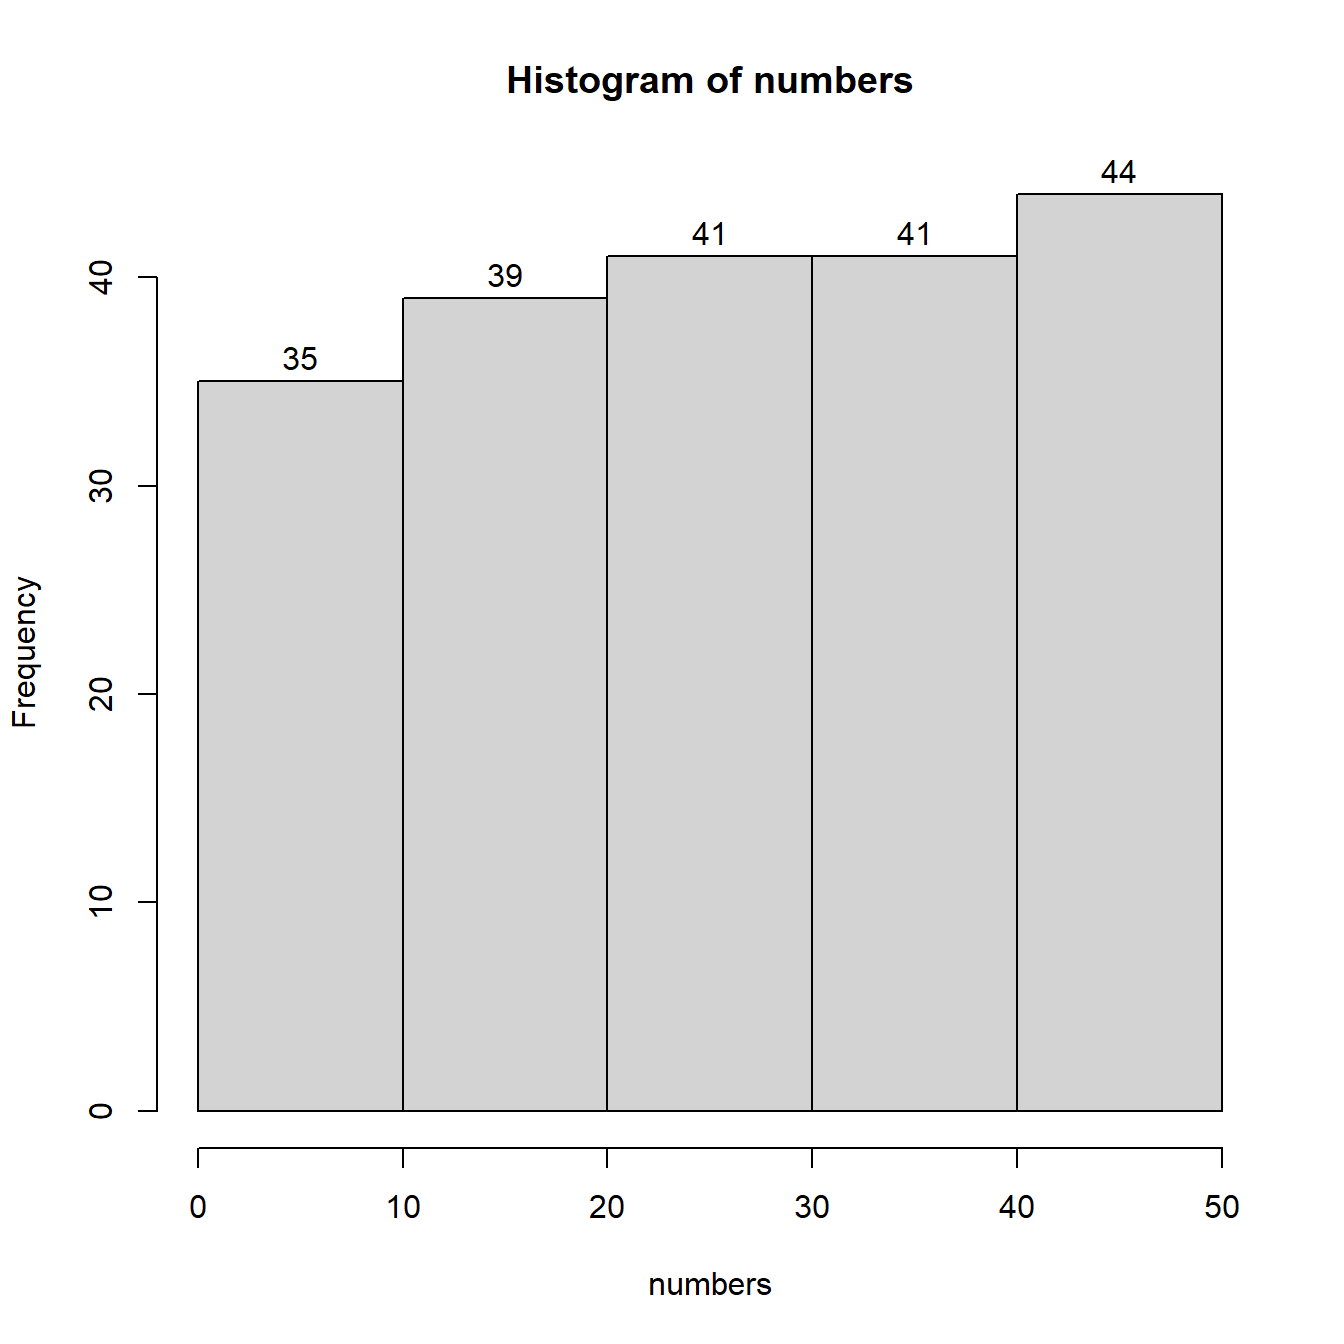
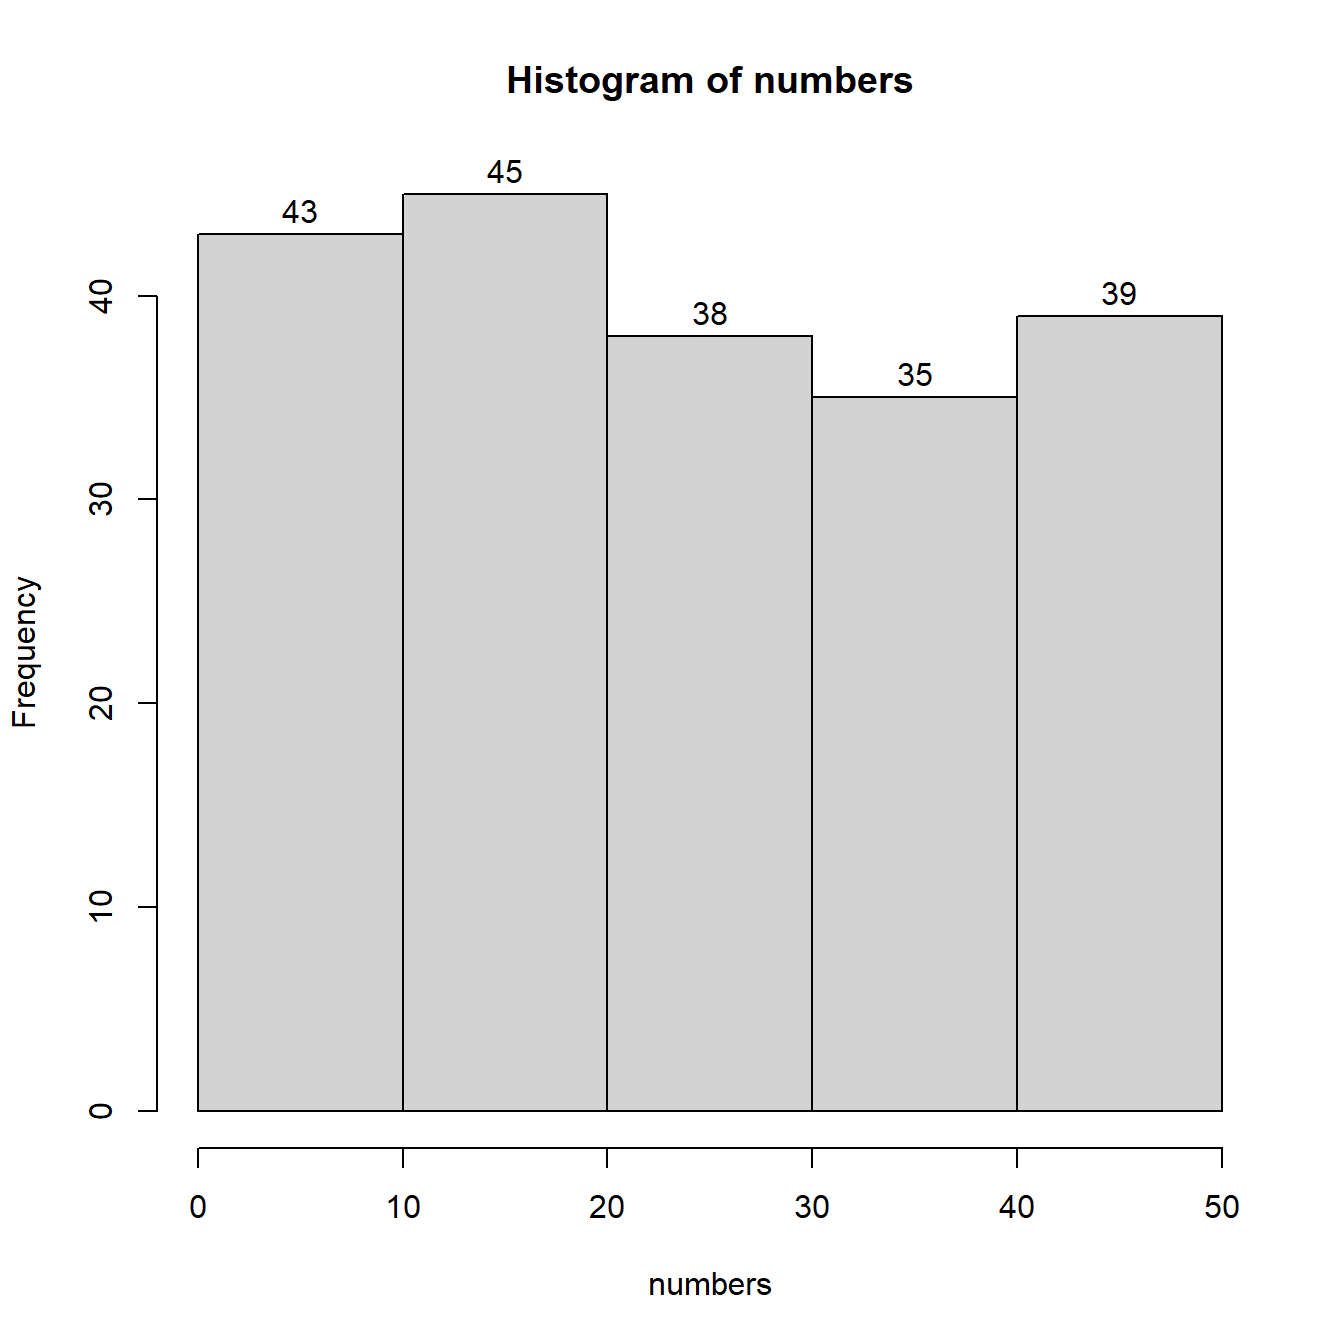
correction of participants

diff --git a/docs/session2.html b/docs/session2.html
@@ -371,7 +371,7 @@ Levels: female male other</p>
 <span id="cb19-3"><a href="session2.html#cb19-3"></a>numbers &lt;-<span class="st"> </span><span class="kw">sample.int</span>(<span class="dv">10</span>, <span class="dv">5</span>, <span class="dt">replace =</span> <span class="ot">TRUE</span>)</span>
 <span id="cb19-4"><a href="session2.html#cb19-4"></a></span>
 <span id="cb19-5"><a href="session2.html#cb19-5"></a>numbers</span></code></pre></div>
-<p>[1] 2 10 2 1 1</p>
+<p>[1] 5 9 10 8 5</p>
 <p>As mentioned above, I used a function called <strong>sample.int()</strong>. A <strong>function</strong> in R, is a mechanism that can perform a task. In this case our function can select an integer number randomly. A function also includes two brackets (). Within these brackets we can specify our own arguments in order to be clear what we want R to do for us when this function is used.</p>
 <p>Notice the number 10, this <strong>argument</strong> instructs our function that we want to pick randomly a number between 1 and 10.</p>
 <p>Notice the second number 5, this <strong>argument</strong> instructs our function to give 5 such numbers from 1 to 10.</p>
@@ -385,14 +385,14 @@ Levels: female male other</p>
 <span id="cb20-3"><a href="session2.html#cb20-3"></a><span class="co"># See how my arguments have now changed.</span></span>
 <span id="cb20-4"><a href="session2.html#cb20-4"></a>numbers &lt;-<span class="st"> </span><span class="kw">sample.int</span>(<span class="dv">50</span>, <span class="dv">200</span>, <span class="dt">replace =</span> <span class="ot">TRUE</span>)</span>
 <span id="cb20-5"><a href="session2.html#cb20-5"></a>numbers</span></code></pre></div>
-<p>[1] 43 48 6 33 36 38 17 18 39 4 9 1 49 19 44 24 16 40 26 9 23 6 33 5 39
-[26] 35 25 17 32 11 10 25 30 31 32 42 19 23 31 41 43 43 38 49 17 48 42 21 16 50
-[51] 42 21 44 29 47 16 43 38 37 30 19 47 30 16 35 42 34 28 24 37 17 1 20 8 15
-[76] 42 3 26 40 1 45 37 7 41 21 13 44 15 36 45 43 11 32 19 22 12 37 41 29 23
-[101] 17 34 47 2 11 16 21 20 10 19 32 45 7 49 14 26 45 2 36 46 4 20 39 21 23
-[126] 10 4 6 13 24 8 25 48 42 7 6 14 21 47 2 23 22 36 16 11 2 41 48 27 25
-[151] 25 48 33 19 41 9 39 30 47 9 10 28 35 10 23 3 5 19 47 35 12 28 6 43 28
-[176] 50 4 20 18 39 46 38 40 20 38 30 43 28 31 35 21 23 30 6 44 31 13 17 31 36</p>
+<p>[1] 45 18 34 46 8 6 20 31 19 34 22 30 16 19 7 44 32 41 50 2 38 5 29 35 45
+[26] 5 46 43 35 11 12 13 26 50 42 22 6 14 17 43 18 18 50 28 14 37 33 39 14 26
+[51] 28 27 4 49 46 41 30 19 44 34 15 50 40 50 27 36 42 29 1 23 49 31 27 13 24
+[76] 20 10 4 44 16 20 47 22 31 37 45 19 40 9 1 33 17 9 6 24 13 38 23 12 22
+[101] 18 10 42 44 37 9 26 6 10 6 7 18 35 36 35 47 49 16 8 40 44 27 1 10 21
+[126] 3 3 21 28 9 15 22 7 49 16 20 47 39 1 24 31 28 5 38 10 11 46 11 2 26
+[151] 1 34 37 11 3 19 2 16 38 16 49 25 16 2 19 16 49 43 1 17 3 15 43 39 22
+[176] 7 43 38 13 6 47 29 20 30 27 41 50 35 33 7 15 30 17 2 38 29 29 25 7 30</p>
 <div class="sourceCode" id="cb21"><pre class="sourceCode r"><code class="sourceCode r"><span id="cb21-1"><a href="session2.html#cb21-1"></a><span class="co"># Now we will call a new function to help us group our data.</span></span>
 <span id="cb21-2"><a href="session2.html#cb21-2"></a><span class="co"># First put them in 5 groups. The numbers in c() declare the numbers that define each group.</span></span>
 <span id="cb21-3"><a href="session2.html#cb21-3"></a></span>
@@ -401,7 +401,7 @@ Levels: female male other</p>
 <span id="cb21-6"><a href="session2.html#cb21-6"></a><span class="co"># Now I can produce my frequency table using another function</span></span>
 <span id="cb21-7"><a href="session2.html#cb21-7"></a><span class="kw">summary</span>(groups)</span></code></pre></div>
 <p>(0,10] (10,20] (20,30] (30,40] (40,50]
-35 39 41 41 44</p>
+43 45 38 35 39</p>
 <div class="sourceCode" id="cb22"><pre class="sourceCode r"><code class="sourceCode r"><span id="cb22-1"><a href="session2.html#cb22-1"></a><span class="co"># We will now use a new function called hist that creates histograms.</span></span>
 <span id="cb22-2"><a href="session2.html#cb22-2"></a><span class="co"># Note that this function has to work with the original numbers</span></span>
 <span id="cb22-3"><a href="session2.html#cb22-3"></a><span class="co"># and not with the groups.</span></span>

diff --git a/docs/session5.html b/docs/session5.html
@@ -335,7 +335,7 @@ code span.wa { color: #60a0b0; font-weight: bold; font-style: italic; } /* Warni
 <ol style="list-style-type: decimal">
 <li>Load the file <strong>“alcohol_qualtrics.csv”</strong> to a data frame</li>
 <li>Drop all the variables after the column 17 (drop column 17 as well)</li>
-<li>Remove any participants with participant number below 100 and above 300<br />
+<li>Remove any participants with participant number above 100 and below 300<br />
 </li>
 <li>Make sure gender and smoke are factors</li>
 <li>Add a column that is the sum of Days1 to Days4</li>
